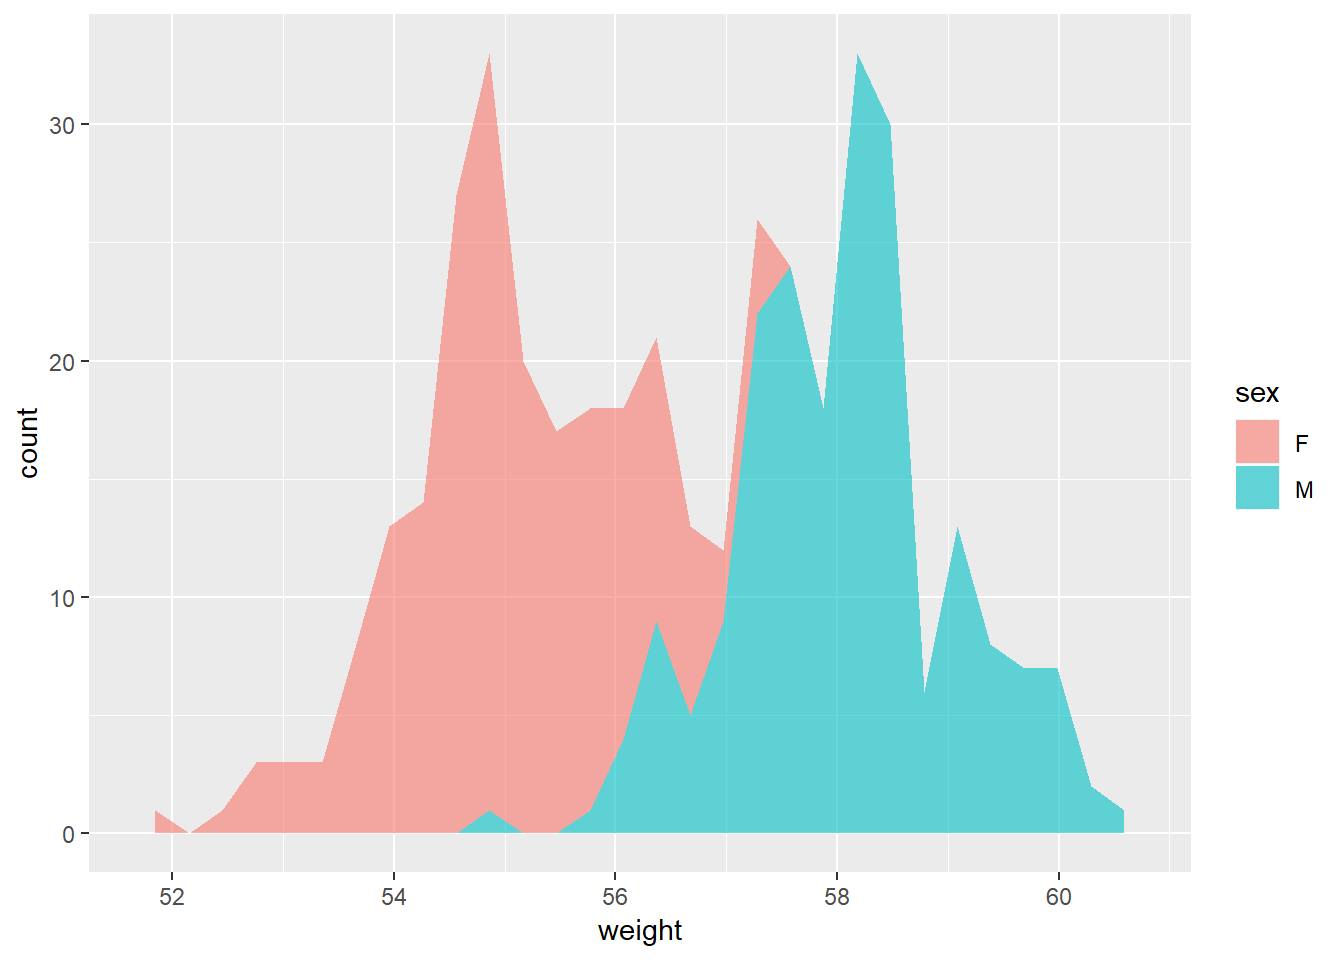
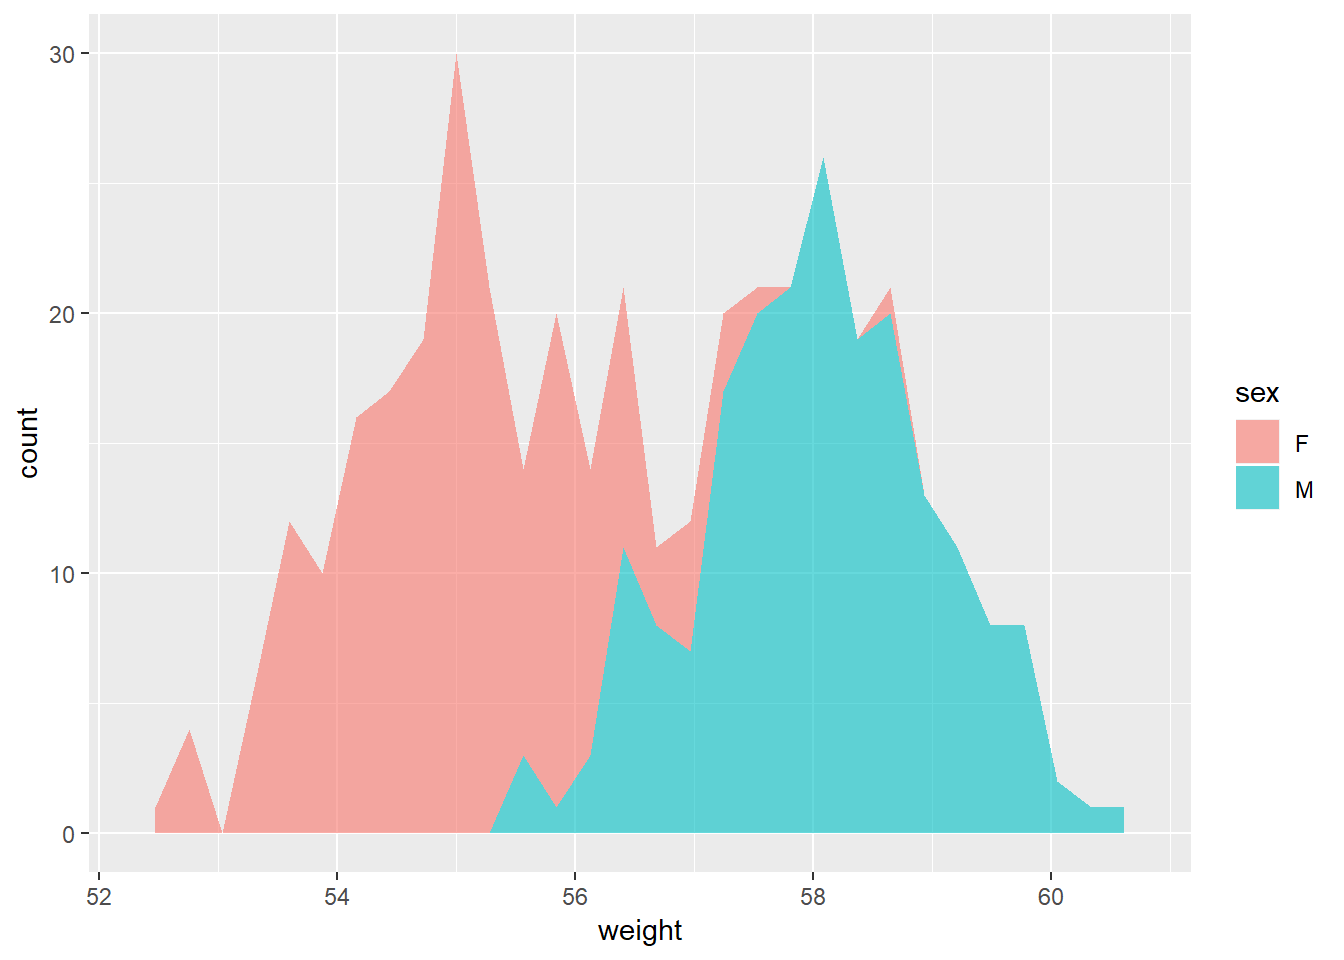
y

diff --git a/public/2019/06/03/ggplot/index.html b/public/2019/06/03/ggplot/index.html
@@ -75,16 +75,9 @@
       
 
 
-<pre class="r"><code>h&lt;-160:180
-h</code></pre>
 <pre><code>##  [1] 160 161 162 163 164 165 166 167 168 169 170 171 172 173 174 175 176
 ## [18] 177 178 179 180</code></pre>
-<pre class="r"><code>w&lt;-50:70
-w</code></pre>
 <pre><code>##  [1] 50 51 52 53 54 55 56 57 58 59 60 61 62 63 64 65 66 67 68 69 70</code></pre>
-<pre class="r"><code>library(ggplot2)
-df&lt;-data.frame(h,w)
-df</code></pre>
 <pre><code>##      h  w
 ## 1  160 50
 ## 2  161 51
@@ -107,55 +100,24 @@ df</code></pre>
 ## 19 178 68
 ## 20 179 69
 ## 21 180 70</code></pre>
-<pre class="r"><code>ggplot(data=df,aes(x=df$h,y=df$w))+geom_point(color=&quot;red&quot;,size=5)+theme_bw()+geom_line(color=&quot;blue&quot;)</code></pre>
 <p><img src="/post/2019-06-03-ggplot_files/figure-html/unnamed-chunk-1-1.png" width="672" /></p>
-<pre class="r"><code>wdata&lt;-data.frame(sex=factor(rep(c(&quot;F&quot;,&quot;M&quot;),each=200)),weight=c(rnorm(200,55),rnorm(200,58)))
- a&lt;-ggplot(wdata,aes(x=weight))
- a+geom_area(stat=&quot;bin&quot;,fill=&quot;336200&quot;)</code></pre>
 <pre><code>## `stat_bin()` using `bins = 30`. Pick better value with `binwidth`.</code></pre>
-<p><img src="/post/2019-06-03-ggplot_files/figure-html/unnamed-chunk-1-2.png" width="672" /></p>
-<pre class="r"><code> a+geom_density(color=&quot;red&quot;)</code></pre>
-<p><img src="/post/2019-06-03-ggplot_files/figure-html/unnamed-chunk-1-3.png" width="672" /></p>
-<pre class="r"><code> a+geom_dotplot(shape=4)</code></pre>
+<p><img src="/post/2019-06-03-ggplot_files/figure-html/unnamed-chunk-1-2.png" width="672" /><img src="/post/2019-06-03-ggplot_files/figure-html/unnamed-chunk-1-3.png" width="672" /></p>
 <pre><code>## Warning: Ignoring unknown parameters: shape</code></pre>
 <pre><code>## `stat_bindot()` using `bins = 30`. Pick better value with `binwidth`.</code></pre>
-<p><img src="/post/2019-06-03-ggplot_files/figure-html/unnamed-chunk-1-4.png" width="672" /></p>
-<pre class="r"><code> a+stat_density()</code></pre>
-<p><img src="/post/2019-06-03-ggplot_files/figure-html/unnamed-chunk-1-5.png" width="672" /></p>
-<pre class="r"><code> a+geom_area(aes(fill=sex),stat=&quot;bin&quot;,alpha=0.6)</code></pre>
+<p><img src="/post/2019-06-03-ggplot_files/figure-html/unnamed-chunk-1-4.png" width="672" /><img src="/post/2019-06-03-ggplot_files/figure-html/unnamed-chunk-1-5.png" width="672" /></p>
 <pre><code>## `stat_bin()` using `bins = 30`. Pick better value with `binwidth`.</code></pre>
 <p><img src="/post/2019-06-03-ggplot_files/figure-html/unnamed-chunk-1-6.png" width="672" /></p>
-<pre class="r"><code> library(plyr)
-mu&lt;-ddply(wdata,&quot;sex&quot;,summarise,grp.mean=mean(weight)) 
- a+geom_freqpoly()</code></pre>
 <pre><code>## `stat_bin()` using `bins = 30`. Pick better value with `binwidth`.</code></pre>
 <p><img src="/post/2019-06-03-ggplot_files/figure-html/unnamed-chunk-1-7.png" width="672" /></p>
-<pre class="r"><code> a+geom_freqpoly(aes(color=sex,linetype=&quot;dotted&quot;))+theme_minimal()</code></pre>
 <pre><code>## `stat_bin()` using `bins = 30`. Pick better value with `binwidth`.</code></pre>
 <p><img src="/post/2019-06-03-ggplot_files/figure-html/unnamed-chunk-1-8.png" width="672" /></p>
-<pre class="r"><code> a+geom_histogram()</code></pre>
 <pre><code>## `stat_bin()` using `bins = 30`. Pick better value with `binwidth`.</code></pre>
 <p><img src="/post/2019-06-03-ggplot_files/figure-html/unnamed-chunk-1-9.png" width="672" /></p>
-<pre class="r"><code> a+geom_histogram(aes(color=sex),position=&quot;stack&quot;)+theme_classic()</code></pre>
 <pre><code>## `stat_bin()` using `bins = 30`. Pick better value with `binwidth`.</code></pre>
-<p><img src="/post/2019-06-03-ggplot_files/figure-html/unnamed-chunk-1-10.png" width="672" /></p>
-<pre class="r"><code>  set.seed(1410)
-dsmall &lt;-diamonds[sample(nrow(diamonds),100),]
-qplot(carat,price,data=diamonds)</code></pre>
-<p><img src="/post/2019-06-03-ggplot_files/figure-html/unnamed-chunk-1-11.png" width="672" /></p>
-<pre class="r"><code>b&lt;-ggplot(data=df,aes(x=h,y=w))
-b+geom_line(linetype=&quot;twodash&quot;,size=3)+theme_bw()</code></pre>
-<p><img src="/post/2019-06-03-ggplot_files/figure-html/unnamed-chunk-1-12.png" width="672" /></p>
-<pre class="r"><code>ggsave(filename=&quot;image.jpg&quot;,scale=2)</code></pre>
+<p><img src="/post/2019-06-03-ggplot_files/figure-html/unnamed-chunk-1-10.png" width="672" /><img src="/post/2019-06-03-ggplot_files/figure-html/unnamed-chunk-1-11.png" width="672" /><img src="/post/2019-06-03-ggplot_files/figure-html/unnamed-chunk-1-12.png" width="672" /></p>
 <pre><code>## Saving 14 x 10 in image</code></pre>
-<pre class="r"><code># 2019.06.05
-library(ggplot2)
-a&lt;-ggplot(mtcars,aes(x=mpg,y=cyl))
-a</code></pre>
-<p><img src="/post/2019-06-03-ggplot_files/figure-html/unnamed-chunk-1-13.png" width="672" /></p>
-<pre class="r"><code>a+geom_point(color=&quot;pink&quot;)+theme_bw()</code></pre>
-<p><img src="/post/2019-06-03-ggplot_files/figure-html/unnamed-chunk-1-14.png" width="672" /></p>
-<pre class="r"><code>head(ToothGrowth)</code></pre>
+<p><img src="/post/2019-06-03-ggplot_files/figure-html/unnamed-chunk-1-13.png" width="672" /><img src="/post/2019-06-03-ggplot_files/figure-html/unnamed-chunk-1-14.png" width="672" /></p>
 <pre><code>##    len supp dose
 ## 1  4.2   VC  0.5
 ## 2 11.5   VC  0.5
@@ -163,41 +125,7 @@ a</code></pre>
 ## 4  5.8   VC  0.5
 ## 5  6.4   VC  0.5
 ## 6 10.0   VC  0.5</code></pre>
-<pre class="r"><code>e&lt;-ggplot(ToothGrowth,aes(x=dose,y=len,group=supp))
-e+geom_boxplot(aes(fill=supp))</code></pre>
-<p><img src="/post/2019-06-03-ggplot_files/figure-html/unnamed-chunk-1-15.png" width="672" /></p>
-<pre class="r"><code>e+geom_point()</code></pre>
-<p><img src="/post/2019-06-03-ggplot_files/figure-html/unnamed-chunk-1-16.png" width="672" /></p>
-<pre class="r"><code>e+geom_boxplot(notch = TRUE,color=&quot;red&quot;)</code></pre>
-<p><img src="/post/2019-06-03-ggplot_files/figure-html/unnamed-chunk-1-17.png" width="672" /></p>
-<pre class="r"><code>e+geom_violin(trim=FALSE)+
-  stat_summary(fun.data = mean_sdl,
-fun.args = list(mult=1),
-  geom = &quot;pointrange&quot;,color=&quot;red&quot;)</code></pre>
-<p><img src="/post/2019-06-03-ggplot_files/figure-html/unnamed-chunk-1-18.png" width="672" /></p>
-<pre class="r"><code>e+geom_violin(trim=FALSE)+geom_boxplot(width=0.3)</code></pre>
-<p><img src="/post/2019-06-03-ggplot_files/figure-html/unnamed-chunk-1-19.png" width="672" /></p>
-<pre class="r"><code>  e&lt;-ggplot(ToothGrowth,aes(x=dose,y=len,color=dose,fill=dose))
-  #dose剂量，颜色渐变
-e+geom_point() </code></pre>
-<p><img src="/post/2019-06-03-ggplot_files/figure-html/unnamed-chunk-1-20.png" width="672" /></p>
-<pre class="r"><code>e+geom_point(color=&quot;red&quot;)  </code></pre>
-<p><img src="/post/2019-06-03-ggplot_files/figure-html/unnamed-chunk-1-21.png" width="672" /></p>
-<pre class="r"><code>#后一种颜色指令会覆盖前一种颜色指令，备注未被覆盖，不用point/line等图的时候加上其他的geom_XX会会恢复本色
-e+geom_jitter(position = position_jitter(0.2))+stat_summary(fun.data = &quot;mean_sdl&quot;,
-        fun.args = list(mult=1),geom = &quot;pointrange&quot;,color=&quot;blue&quot;)</code></pre>
-<p><img src="/post/2019-06-03-ggplot_files/figure-html/unnamed-chunk-1-22.png" width="672" /></p>
-<pre class="r"><code>f&lt;-ggplot(ToothGrowth,aes(x=dose,y=len,group=supp))
-f+geom_line(aes(linetype=supp,color=supp))+geom_point(color=&quot;#FF0000&quot;)</code></pre>
-<p><img src="/post/2019-06-03-ggplot_files/figure-html/unnamed-chunk-1-23.png" width="672" /></p>
-<pre class="r"><code>#supp用因子区分
-#vjust垂直调整位置（-向上，+向下），hjust水平调整位置，左加右减
-f+geom_bar(stat=&quot;identity&quot;)</code></pre>
-<p><img src="/post/2019-06-03-ggplot_files/figure-html/unnamed-chunk-1-24.png" width="672" /></p>
-<pre class="r"><code>f+geom_bar(stat=&quot;identity&quot;,fill=&quot;steelblue&quot;)+geom_text(aes(label=len),
-vjust=-0.3,size=3.5)+theme_minimal()</code></pre>
-<p><img src="/post/2019-06-03-ggplot_files/figure-html/unnamed-chunk-1-25.png" width="672" /></p>
-<pre class="r"><code>diamonds</code></pre>
+<p><img src="/post/2019-06-03-ggplot_files/figure-html/unnamed-chunk-1-15.png" width="672" /><img src="/post/2019-06-03-ggplot_files/figure-html/unnamed-chunk-1-16.png" width="672" /><img src="/post/2019-06-03-ggplot_files/figure-html/unnamed-chunk-1-17.png" width="672" /><img src="/post/2019-06-03-ggplot_files/figure-html/unnamed-chunk-1-18.png" width="672" /><img src="/post/2019-06-03-ggplot_files/figure-html/unnamed-chunk-1-19.png" width="672" /><img src="/post/2019-06-03-ggplot_files/figure-html/unnamed-chunk-1-20.png" width="672" /><img src="/post/2019-06-03-ggplot_files/figure-html/unnamed-chunk-1-21.png" width="672" /><img src="/post/2019-06-03-ggplot_files/figure-html/unnamed-chunk-1-22.png" width="672" /><img src="/post/2019-06-03-ggplot_files/figure-html/unnamed-chunk-1-23.png" width="672" /><img src="/post/2019-06-03-ggplot_files/figure-html/unnamed-chunk-1-24.png" width="672" /><img src="/post/2019-06-03-ggplot_files/figure-html/unnamed-chunk-1-25.png" width="672" /></p>
 <pre><code>## # A tibble: 53,940 x 10
 ##    carat cut       color clarity depth table price     x     y     z
 ##    &lt;dbl&gt; &lt;ord&gt;     &lt;ord&gt; &lt;ord&gt;   &lt;dbl&gt; &lt;dbl&gt; &lt;int&gt; &lt;dbl&gt; &lt;dbl&gt; &lt;dbl&gt;
@@ -212,12 +140,7 @@ vjust=-0.3,size=3.5)+theme_minimal()</code></pre>
 ##  9 0.22  Fair      E     VS2      65.1    61   337  3.87  3.78  2.49
 ## 10 0.23  Very Good H     VS1      59.4    61   338  4     4.05  2.39
 ## # ... with 53,930 more rows</code></pre>
-<pre class="r"><code>ggplot(diamonds,aes(cut,color))+geom_jitter(aes(color=cut),size=0.5)</code></pre>
 <p><img src="/post/2019-06-03-ggplot_files/figure-html/unnamed-chunk-1-26.png" width="672" /></p>
-<pre class="r"><code>#误差
-df&lt;-ToothGrowth
-df$dose&lt;-as.factor(df$dose)
-head(df)</code></pre>
 <pre><code>##    len supp dose
 ## 1  4.2   VC  0.5
 ## 2 11.5   VC  0.5
@@ -225,8 +148,6 @@ head(df)</code></pre>
 ## 4  5.8   VC  0.5
 ## 5  6.4   VC  0.5
 ## 6 10.0   VC  0.5</code></pre>
-<pre class="r"><code>#head只展示前六个
-#scale自定义</code></pre>
 
     </div>
   </article>
@@ -263,9 +184,6 @@ head(df)</code></pre>
 
 
     
-<script src="/js/math-code.js"></script>
-<script async src="//cdnjs.cloudflare.com/ajax/libs/mathjax/2.7.5/MathJax.js?config=TeX-MML-AM_CHTML"></script>
-
 
     
   </body>

diff --git a/content/post/2019-06-03-ggplot.html b/content/post/2019-06-03-ggplot.html
@@ -10,16 +10,9 @@ tags: []
 
 
 
-<pre class="r"><code>h&lt;-160:180
-h</code></pre>
 <pre><code>##  [1] 160 161 162 163 164 165 166 167 168 169 170 171 172 173 174 175 176
 ## [18] 177 178 179 180</code></pre>
-<pre class="r"><code>w&lt;-50:70
-w</code></pre>
 <pre><code>##  [1] 50 51 52 53 54 55 56 57 58 59 60 61 62 63 64 65 66 67 68 69 70</code></pre>
-<pre class="r"><code>library(ggplot2)
-df&lt;-data.frame(h,w)
-df</code></pre>
 <pre><code>##      h  w
 ## 1  160 50
 ## 2  161 51
@@ -42,55 +35,24 @@ df</code></pre>
 ## 19 178 68
 ## 20 179 69
 ## 21 180 70</code></pre>
-<pre class="r"><code>ggplot(data=df,aes(x=df$h,y=df$w))+geom_point(color=&quot;red&quot;,size=5)+theme_bw()+geom_line(color=&quot;blue&quot;)</code></pre>
 <p><img src="/post/2019-06-03-ggplot_files/figure-html/unnamed-chunk-1-1.png" width="672" /></p>
-<pre class="r"><code>wdata&lt;-data.frame(sex=factor(rep(c(&quot;F&quot;,&quot;M&quot;),each=200)),weight=c(rnorm(200,55),rnorm(200,58)))
- a&lt;-ggplot(wdata,aes(x=weight))
- a+geom_area(stat=&quot;bin&quot;,fill=&quot;336200&quot;)</code></pre>
 <pre><code>## `stat_bin()` using `bins = 30`. Pick better value with `binwidth`.</code></pre>
-<p><img src="/post/2019-06-03-ggplot_files/figure-html/unnamed-chunk-1-2.png" width="672" /></p>
-<pre class="r"><code> a+geom_density(color=&quot;red&quot;)</code></pre>
-<p><img src="/post/2019-06-03-ggplot_files/figure-html/unnamed-chunk-1-3.png" width="672" /></p>
-<pre class="r"><code> a+geom_dotplot(shape=4)</code></pre>
+<p><img src="/post/2019-06-03-ggplot_files/figure-html/unnamed-chunk-1-2.png" width="672" /><img src="/post/2019-06-03-ggplot_files/figure-html/unnamed-chunk-1-3.png" width="672" /></p>
 <pre><code>## Warning: Ignoring unknown parameters: shape</code></pre>
 <pre><code>## `stat_bindot()` using `bins = 30`. Pick better value with `binwidth`.</code></pre>
-<p><img src="/post/2019-06-03-ggplot_files/figure-html/unnamed-chunk-1-4.png" width="672" /></p>
-<pre class="r"><code> a+stat_density()</code></pre>
-<p><img src="/post/2019-06-03-ggplot_files/figure-html/unnamed-chunk-1-5.png" width="672" /></p>
-<pre class="r"><code> a+geom_area(aes(fill=sex),stat=&quot;bin&quot;,alpha=0.6)</code></pre>
+<p><img src="/post/2019-06-03-ggplot_files/figure-html/unnamed-chunk-1-4.png" width="672" /><img src="/post/2019-06-03-ggplot_files/figure-html/unnamed-chunk-1-5.png" width="672" /></p>
 <pre><code>## `stat_bin()` using `bins = 30`. Pick better value with `binwidth`.</code></pre>
 <p><img src="/post/2019-06-03-ggplot_files/figure-html/unnamed-chunk-1-6.png" width="672" /></p>
-<pre class="r"><code> library(plyr)
-mu&lt;-ddply(wdata,&quot;sex&quot;,summarise,grp.mean=mean(weight)) 
- a+geom_freqpoly()</code></pre>
 <pre><code>## `stat_bin()` using `bins = 30`. Pick better value with `binwidth`.</code></pre>
 <p><img src="/post/2019-06-03-ggplot_files/figure-html/unnamed-chunk-1-7.png" width="672" /></p>
-<pre class="r"><code> a+geom_freqpoly(aes(color=sex,linetype=&quot;dotted&quot;))+theme_minimal()</code></pre>
 <pre><code>## `stat_bin()` using `bins = 30`. Pick better value with `binwidth`.</code></pre>
 <p><img src="/post/2019-06-03-ggplot_files/figure-html/unnamed-chunk-1-8.png" width="672" /></p>
-<pre class="r"><code> a+geom_histogram()</code></pre>
 <pre><code>## `stat_bin()` using `bins = 30`. Pick better value with `binwidth`.</code></pre>
 <p><img src="/post/2019-06-03-ggplot_files/figure-html/unnamed-chunk-1-9.png" width="672" /></p>
-<pre class="r"><code> a+geom_histogram(aes(color=sex),position=&quot;stack&quot;)+theme_classic()</code></pre>
 <pre><code>## `stat_bin()` using `bins = 30`. Pick better value with `binwidth`.</code></pre>
-<p><img src="/post/2019-06-03-ggplot_files/figure-html/unnamed-chunk-1-10.png" width="672" /></p>
-<pre class="r"><code>  set.seed(1410)
-dsmall &lt;-diamonds[sample(nrow(diamonds),100),]
-qplot(carat,price,data=diamonds)</code></pre>
-<p><img src="/post/2019-06-03-ggplot_files/figure-html/unnamed-chunk-1-11.png" width="672" /></p>
-<pre class="r"><code>b&lt;-ggplot(data=df,aes(x=h,y=w))
-b+geom_line(linetype=&quot;twodash&quot;,size=3)+theme_bw()</code></pre>
-<p><img src="/post/2019-06-03-ggplot_files/figure-html/unnamed-chunk-1-12.png" width="672" /></p>
-<pre class="r"><code>ggsave(filename=&quot;image.jpg&quot;,scale=2)</code></pre>
+<p><img src="/post/2019-06-03-ggplot_files/figure-html/unnamed-chunk-1-10.png" width="672" /><img src="/post/2019-06-03-ggplot_files/figure-html/unnamed-chunk-1-11.png" width="672" /><img src="/post/2019-06-03-ggplot_files/figure-html/unnamed-chunk-1-12.png" width="672" /></p>
 <pre><code>## Saving 14 x 10 in image</code></pre>
-<pre class="r"><code># 2019.06.05
-library(ggplot2)
-a&lt;-ggplot(mtcars,aes(x=mpg,y=cyl))
-a</code></pre>
-<p><img src="/post/2019-06-03-ggplot_files/figure-html/unnamed-chunk-1-13.png" width="672" /></p>
-<pre class="r"><code>a+geom_point(color=&quot;pink&quot;)+theme_bw()</code></pre>
-<p><img src="/post/2019-06-03-ggplot_files/figure-html/unnamed-chunk-1-14.png" width="672" /></p>
-<pre class="r"><code>head(ToothGrowth)</code></pre>
+<p><img src="/post/2019-06-03-ggplot_files/figure-html/unnamed-chunk-1-13.png" width="672" /><img src="/post/2019-06-03-ggplot_files/figure-html/unnamed-chunk-1-14.png" width="672" /></p>
 <pre><code>##    len supp dose
 ## 1  4.2   VC  0.5
 ## 2 11.5   VC  0.5
@@ -98,41 +60,7 @@ a</code></pre>
 ## 4  5.8   VC  0.5
 ## 5  6.4   VC  0.5
 ## 6 10.0   VC  0.5</code></pre>
-<pre class="r"><code>e&lt;-ggplot(ToothGrowth,aes(x=dose,y=len,group=supp))
-e+geom_boxplot(aes(fill=supp))</code></pre>
-<p><img src="/post/2019-06-03-ggplot_files/figure-html/unnamed-chunk-1-15.png" width="672" /></p>
-<pre class="r"><code>e+geom_point()</code></pre>
-<p><img src="/post/2019-06-03-ggplot_files/figure-html/unnamed-chunk-1-16.png" width="672" /></p>
-<pre class="r"><code>e+geom_boxplot(notch = TRUE,color=&quot;red&quot;)</code></pre>
-<p><img src="/post/2019-06-03-ggplot_files/figure-html/unnamed-chunk-1-17.png" width="672" /></p>
-<pre class="r"><code>e+geom_violin(trim=FALSE)+
-  stat_summary(fun.data = mean_sdl,
-fun.args = list(mult=1),
-  geom = &quot;pointrange&quot;,color=&quot;red&quot;)</code></pre>
-<p><img src="/post/2019-06-03-ggplot_files/figure-html/unnamed-chunk-1-18.png" width="672" /></p>
-<pre class="r"><code>e+geom_violin(trim=FALSE)+geom_boxplot(width=0.3)</code></pre>
-<p><img src="/post/2019-06-03-ggplot_files/figure-html/unnamed-chunk-1-19.png" width="672" /></p>
-<pre class="r"><code>  e&lt;-ggplot(ToothGrowth,aes(x=dose,y=len,color=dose,fill=dose))
-  #dose剂量，颜色渐变
-e+geom_point() </code></pre>
-<p><img src="/post/2019-06-03-ggplot_files/figure-html/unnamed-chunk-1-20.png" width="672" /></p>
-<pre class="r"><code>e+geom_point(color=&quot;red&quot;)  </code></pre>
-<p><img src="/post/2019-06-03-ggplot_files/figure-html/unnamed-chunk-1-21.png" width="672" /></p>
-<pre class="r"><code>#后一种颜色指令会覆盖前一种颜色指令，备注未被覆盖，不用point/line等图的时候加上其他的geom_XX会会恢复本色
-e+geom_jitter(position = position_jitter(0.2))+stat_summary(fun.data = &quot;mean_sdl&quot;,
-        fun.args = list(mult=1),geom = &quot;pointrange&quot;,color=&quot;blue&quot;)</code></pre>
-<p><img src="/post/2019-06-03-ggplot_files/figure-html/unnamed-chunk-1-22.png" width="672" /></p>
-<pre class="r"><code>f&lt;-ggplot(ToothGrowth,aes(x=dose,y=len,group=supp))
-f+geom_line(aes(linetype=supp,color=supp))+geom_point(color=&quot;#FF0000&quot;)</code></pre>
-<p><img src="/post/2019-06-03-ggplot_files/figure-html/unnamed-chunk-1-23.png" width="672" /></p>
-<pre class="r"><code>#supp用因子区分
-#vjust垂直调整位置（-向上，+向下），hjust水平调整位置，左加右减
-f+geom_bar(stat=&quot;identity&quot;)</code></pre>
-<p><img src="/post/2019-06-03-ggplot_files/figure-html/unnamed-chunk-1-24.png" width="672" /></p>
-<pre class="r"><code>f+geom_bar(stat=&quot;identity&quot;,fill=&quot;steelblue&quot;)+geom_text(aes(label=len),
-vjust=-0.3,size=3.5)+theme_minimal()</code></pre>
-<p><img src="/post/2019-06-03-ggplot_files/figure-html/unnamed-chunk-1-25.png" width="672" /></p>
-<pre class="r"><code>diamonds</code></pre>
+<p><img src="/post/2019-06-03-ggplot_files/figure-html/unnamed-chunk-1-15.png" width="672" /><img src="/post/2019-06-03-ggplot_files/figure-html/unnamed-chunk-1-16.png" width="672" /><img src="/post/2019-06-03-ggplot_files/figure-html/unnamed-chunk-1-17.png" width="672" /><img src="/post/2019-06-03-ggplot_files/figure-html/unnamed-chunk-1-18.png" width="672" /><img src="/post/2019-06-03-ggplot_files/figure-html/unnamed-chunk-1-19.png" width="672" /><img src="/post/2019-06-03-ggplot_files/figure-html/unnamed-chunk-1-20.png" width="672" /><img src="/post/2019-06-03-ggplot_files/figure-html/unnamed-chunk-1-21.png" width="672" /><img src="/post/2019-06-03-ggplot_files/figure-html/unnamed-chunk-1-22.png" width="672" /><img src="/post/2019-06-03-ggplot_files/figure-html/unnamed-chunk-1-23.png" width="672" /><img src="/post/2019-06-03-ggplot_files/figure-html/unnamed-chunk-1-24.png" width="672" /><img src="/post/2019-06-03-ggplot_files/figure-html/unnamed-chunk-1-25.png" width="672" /></p>
 <pre><code>## # A tibble: 53,940 x 10
 ##    carat cut       color clarity depth table price     x     y     z
 ##    &lt;dbl&gt; &lt;ord&gt;     &lt;ord&gt; &lt;ord&gt;   &lt;dbl&gt; &lt;dbl&gt; &lt;int&gt; &lt;dbl&gt; &lt;dbl&gt; &lt;dbl&gt;
@@ -147,12 +75,7 @@ vjust=-0.3,size=3.5)+theme_minimal()</code></pre>
 ##  9 0.22  Fair      E     VS2      65.1    61   337  3.87  3.78  2.49
 ## 10 0.23  Very Good H     VS1      59.4    61   338  4     4.05  2.39
 ## # ... with 53,930 more rows</code></pre>
-<pre class="r"><code>ggplot(diamonds,aes(cut,color))+geom_jitter(aes(color=cut),size=0.5)</code></pre>
 <p><img src="/post/2019-06-03-ggplot_files/figure-html/unnamed-chunk-1-26.png" width="672" /></p>
-<pre class="r"><code>#误差
-df&lt;-ToothGrowth
-df$dose&lt;-as.factor(df$dose)
-head(df)</code></pre>
 <pre><code>##    len supp dose
 ## 1  4.2   VC  0.5
 ## 2 11.5   VC  0.5
@@ -160,5 +83,3 @@ head(df)</code></pre>
 ## 4  5.8   VC  0.5
 ## 5  6.4   VC  0.5
 ## 6 10.0   VC  0.5</code></pre>
-<pre class="r"><code>#head只展示前六个
-#scale自定义</code></pre>
